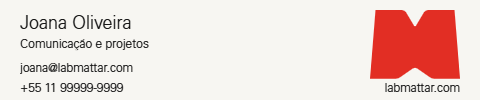
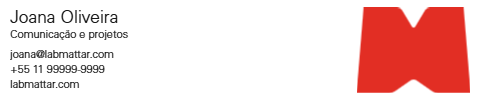
Aplicar assinatura simples aprovada com M animado

diff --git a/public/assinatura-email.html b/public/assinatura-email.html
@@ -7,7 +7,7 @@
   <link rel="stylesheet" href="/assinatura-email.css?v=canvas-limpo-20261112-1">
   <link rel="stylesheet" href="/lab-tool-navigation.css">
   <script type="module" src="/lab-tool-navigation.mjs"></script>
-  <script type="module" src="/assinatura-email.mjs?v=previa-20261112-2"></script>
+  <script type="module" src="/assinatura-email.mjs?v=simples-20261117"></script>
 </head>
 <body>
   <a class="skip" href="#dados">Ir para os seus dados</a>

diff --git a/content/email-signature.md b/content/email-signature.md
@@ -4,6 +4,8 @@ Endereço principal: https://identidade.labmattar.com/assinatura-email . Acesso 
 
 As quatro composições foram reorganizadas na faixa de 480 × 100 px, retomando o tamanho anterior solicitado pelo autor. O gerador mantém os vetores nativos e as cores; os dados de exemplo mostram Joana Oliveira e não são preenchidos automaticamente no formulário.
 
+A composição 1 foi substituída pelo enquadramento aprovado em 17/11/2026: nome, função, e-mail, telefone e site em um bloco à esquerda; M à direita ocupando a altura desse bloco. O PNG em alta usa 960 × 200 px e uma área de conteúdo de 921 × 171 px, com margens brancas. A exportação de uso é a mesma arte em 480 × 100 px.
+
 | Modelo | Identificador | Tamanho de uso | PNG em alta | Movimento |
 | --- | --- | --- | --- | --- |
 | 01 / M horizontal | m-horizontal | 480 × 100 px | 960 × 200 px | M + Forma |
@@ -17,13 +19,13 @@ O Cartão digital anterior permanece disponível em 480 × 280 px, com exportaç
 
 A página inicia em Para e-mail e mostra os quatro modelos. A escolha pode ser compartilhada pelo parâmetro modelo no endereço, por exemplo ?modelo=m-compacto. O usuário escolhe o modelo, preenche nome, função, e-mail e telefone e exporta. Nome e e-mail são obrigatórios; função e telefone são opcionais. Os dados ficam apenas na página, sem gravação local ou envio a um servidor.
 
-O nome usa Univers LT Std 45 Light em 18 px; função e contatos usam 12 px. M compacto divide o nome em até duas linhas, preservando palavras inteiras. Os demais usam uma linha. Nomes, funções ou contatos que excedam a área produzem erro no campo e bloqueiam o PNG, GIF e HTML. O gerador não comprime os vetores, reduz a fonte ou corta o arquivo exportado para fazê-lo caber. Um endereço longo deve usar outro modelo com mais espaço.
+Na composição 1, o nome usa Univers LT Std 45 Light em 17,5 px; função e contatos usam 11 px, com linhas de base fixas e o site junto dos contatos. As outras três composições mantêm 18 px para nome e 12 px para função e contatos. M compacto divide o nome em até duas linhas, preservando palavras inteiras. Os demais usam uma linha. Nomes, funções ou contatos que excedam a área produzem erro no campo e bloqueiam o PNG, GIF e HTML. O gerador não comprime os vetores, reduz a fonte ou corta o arquivo exportado para fazê-lo caber. Um endereço longo deve usar outro modelo com mais espaço.
 
-Fundo, Texto e M / faixa são escolhas independentes da paleta de oito cores. O padrão usa Papel, Preto e Vermelho; M com linha inicia em Branco, Preto e Vermelho. Cores personalizadas acompanham a troca de modelo. Restaurar padrão recupera a combinação do modelo atual sem apagar os dados. O contraste considera também o texto claro sobre a faixa.
+Fundo, Texto e M / faixa são escolhas independentes da paleta de oito cores. As composições 1 e 4 iniciam em Branco, Preto e Vermelho; as demais usam Papel, Preto e Vermelho. Cores personalizadas acompanham a troca de modelo. Restaurar padrão recupera a combinação do modelo atual sem apagar os dados. O contraste considera também o texto claro sobre a faixa.
 
 ## Imagens, movimento e arquivos
 
-A prévia inicia fixa e mostra o M nativo no mesmo enquadramento do PNG. O botão Animar usa o filme aprovado M + Forma. A pausa recupera o quadro fixo da assinatura. MATTAR na faixa conserva a assinatura nativa completa e não oferece motion.
+A composição 1 abre com o filme aprovado M + Forma em reprodução silenciosa e contínua. Somente o M se transforma; os contatos permanecem imóveis. A preferência do sistema por movimento reduzido mantém a prévia fixa; a pausa também recupera o M nativo no enquadramento do PNG. O botão Animar permite iniciar novamente. MATTAR na faixa conserva a assinatura nativa completa e não oferece motion.
 
 A prévia ocupa a largura disponível em uma área clara, sem moldura ou sombra, com resolução adicional em telas de alta densidade. Ampliar abre uma visualização maior; no celular a imagem pode ser percorrida horizontalmente. Essa ampliação pertence à interface: PNG e GIF mantêm 480 × 100 px e o PNG em alta, 960 × 200 px.
 
@@ -54,6 +56,7 @@ Referência: https://support.google.com/mail/answer/11468381?hl=pt-BR .
 - public/email-signature.mjs: normalização, validação dos contatos e alternativa em texto.
 - public/identidade/email/modelos/: oito miniaturas PNG, em tamanho de uso e 2×, correspondentes às quatro faixas vigentes com Joana.
 - public/identidade/M.svg e public/presentation-assets/mattar-published.svg: vetores originais, sem alterações.
+- public/ambiente-editorial/media/m-publicado.svg: M publicado usado na composição 1, com a proporção nativa de 990,08 × 743,18; arquivo original sem alterações.
 - public/motion/videos/m-form.mp4: filme aprovado, sem alterações.
 - public/vendor/gifenc/: codificador com versão e licença já fixadas.
 
